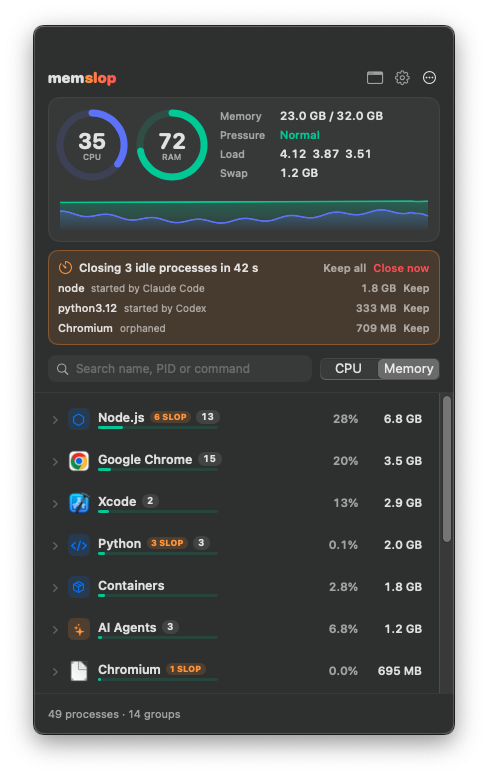
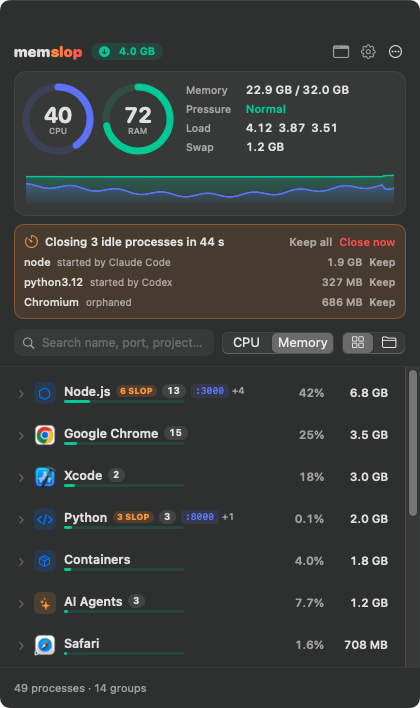
chore(release): 1.1.0

diff --git a/README.md b/README.md
@@ -60,7 +60,10 @@ server you started in your own terminal.
 - Processes grouped the way you think about them. All Chrome helpers go under *Google Chrome*.
   Interpreters go under their family: *Python* (including `uv`), *Node.js*, *AI Agents* (Claude
   Code, Codex, Gemini CLI…), *Databases*, *Containers*…
-- Sort by CPU or memory, search by name, PID or command line.
+- Every row shows the **ports** it listens on (`:3000`, `:8000`) and the **project** it runs in, so
+  `node` becomes "the Next.js of *shop* on :3000".
+- Group by kind or **by project**. Sort by CPU or memory. Search by name, PID, port, project or
+  command line.
 - Quit one process, a whole group or a selection. Apps are asked to quit like the Dock does.
   Other processes get `SIGTERM`, then `SIGKILL` if they ignore it for 5 seconds.
 
@@ -68,7 +71,11 @@ server you started in your own terminal.
 - Every 10 minutes (10, 15, 20, 30 or 60), MemSlop closes dev slop that has been idle for that
   whole time.
 - A 60-second warning with **Keep** and **Close now**, in the panel and as a notification.
+- When memory pressure stays **critical** for 30 seconds, it checks right away instead of waiting.
+  Under pressure, 5 idle minutes are enough. Same rules, same warning, same Keep button.
 - Dry-run mode, an editable rule list, a protected list and an activity log.
+- A **memory freed** counter: today in the panel, and the total since install in the dashboard.
+  Processes you quit by hand count too.
 
 **Dashboard**
 - 24 hours of CPU and memory history. Hover any moment to see which groups were using the memory.
@@ -101,7 +108,8 @@ restored to its default in **Settings → Slop rules / Protected**.
 ## Privacy
 
 MemSlop makes no network requests and has no telemetry or accounts. History and the activity
-log stay in `~/Library/Application Support/MemSlop` and are pruned after 24 hours. It needs no
+log stay in `~/Library/Application Support/MemSlop` and are pruned after 24 hours (only the
+"freed since install" total is kept). It needs no
 special permissions. It only reads and signals your own processes, and asks once to show
 notifications.
 

diff --git a/CHANGELOG.md b/CHANGELOG.md
@@ -3,6 +3,19 @@
 All notable changes to this project are documented here.
 The format follows [Keep a Changelog](https://keepachangelog.com/en/1.1.0/) and the project uses [Semantic Versioning](https://semver.org/).
 
+## [1.1.0] - 2026-10-28
+
+### Added
+- **Ports and projects** in the process list: each process shows the TCP ports it listens on and the project folder it runs in (nearest folder with `.git` or a package manifest). Groups show the union of their ports.
+- **Group by project**: a toggle next to the sort control groups processes by repository instead of by kind. The choice is remembered.
+- Search also matches ports (`3000`, `:3000`) and project names.
+- **Clean early when memory is critical** (on by default): after 30 s of critical memory pressure, auto-clean checks right away and accepts processes idle for 5 minutes, at most once every 5 minutes. Same rules, warning and Keep button.
+- **Memory freed** pill in the panel header, and the total since install in the dashboard. Processes quit by hand are now written to the activity log as *Manual* and count too.
+
+### Changed
+- Ports and folders are read only while the list or dashboard is open, at most every 15 s per process.
+- Saved auto-clean settings from older versions load with new options at their defaults instead of being reset.
+
 ## [1.0.0] - 2026-10-27
 
 ### Added
@@ -49,6 +62,7 @@ The format follows [Keep a Changelog](https://keepachangelog.com/en/1.1.0/) and 
 - Quit a process, a whole group, or a multi-selection. Apps are asked to quit like the Dock does; other processes get SIGTERM, then SIGKILL after 5 s.
 - Core sampling with libproc and Mach (under 1% CPU and ~20 MB while idle).
 
+[1.1.0]: https://github.com/ericrisco/mem-slop/compare/v1.0.0...v1.1.0
 [1.0.0]: https://github.com/ericrisco/mem-slop/releases/tag/v1.0.0
 [0.3.0]: https://github.com/ericrisco/mem-slop/releases/tag/v0.3.0
 [0.2.0]: https://github.com/ericrisco/mem-slop/releases/tag/v0.2.0
